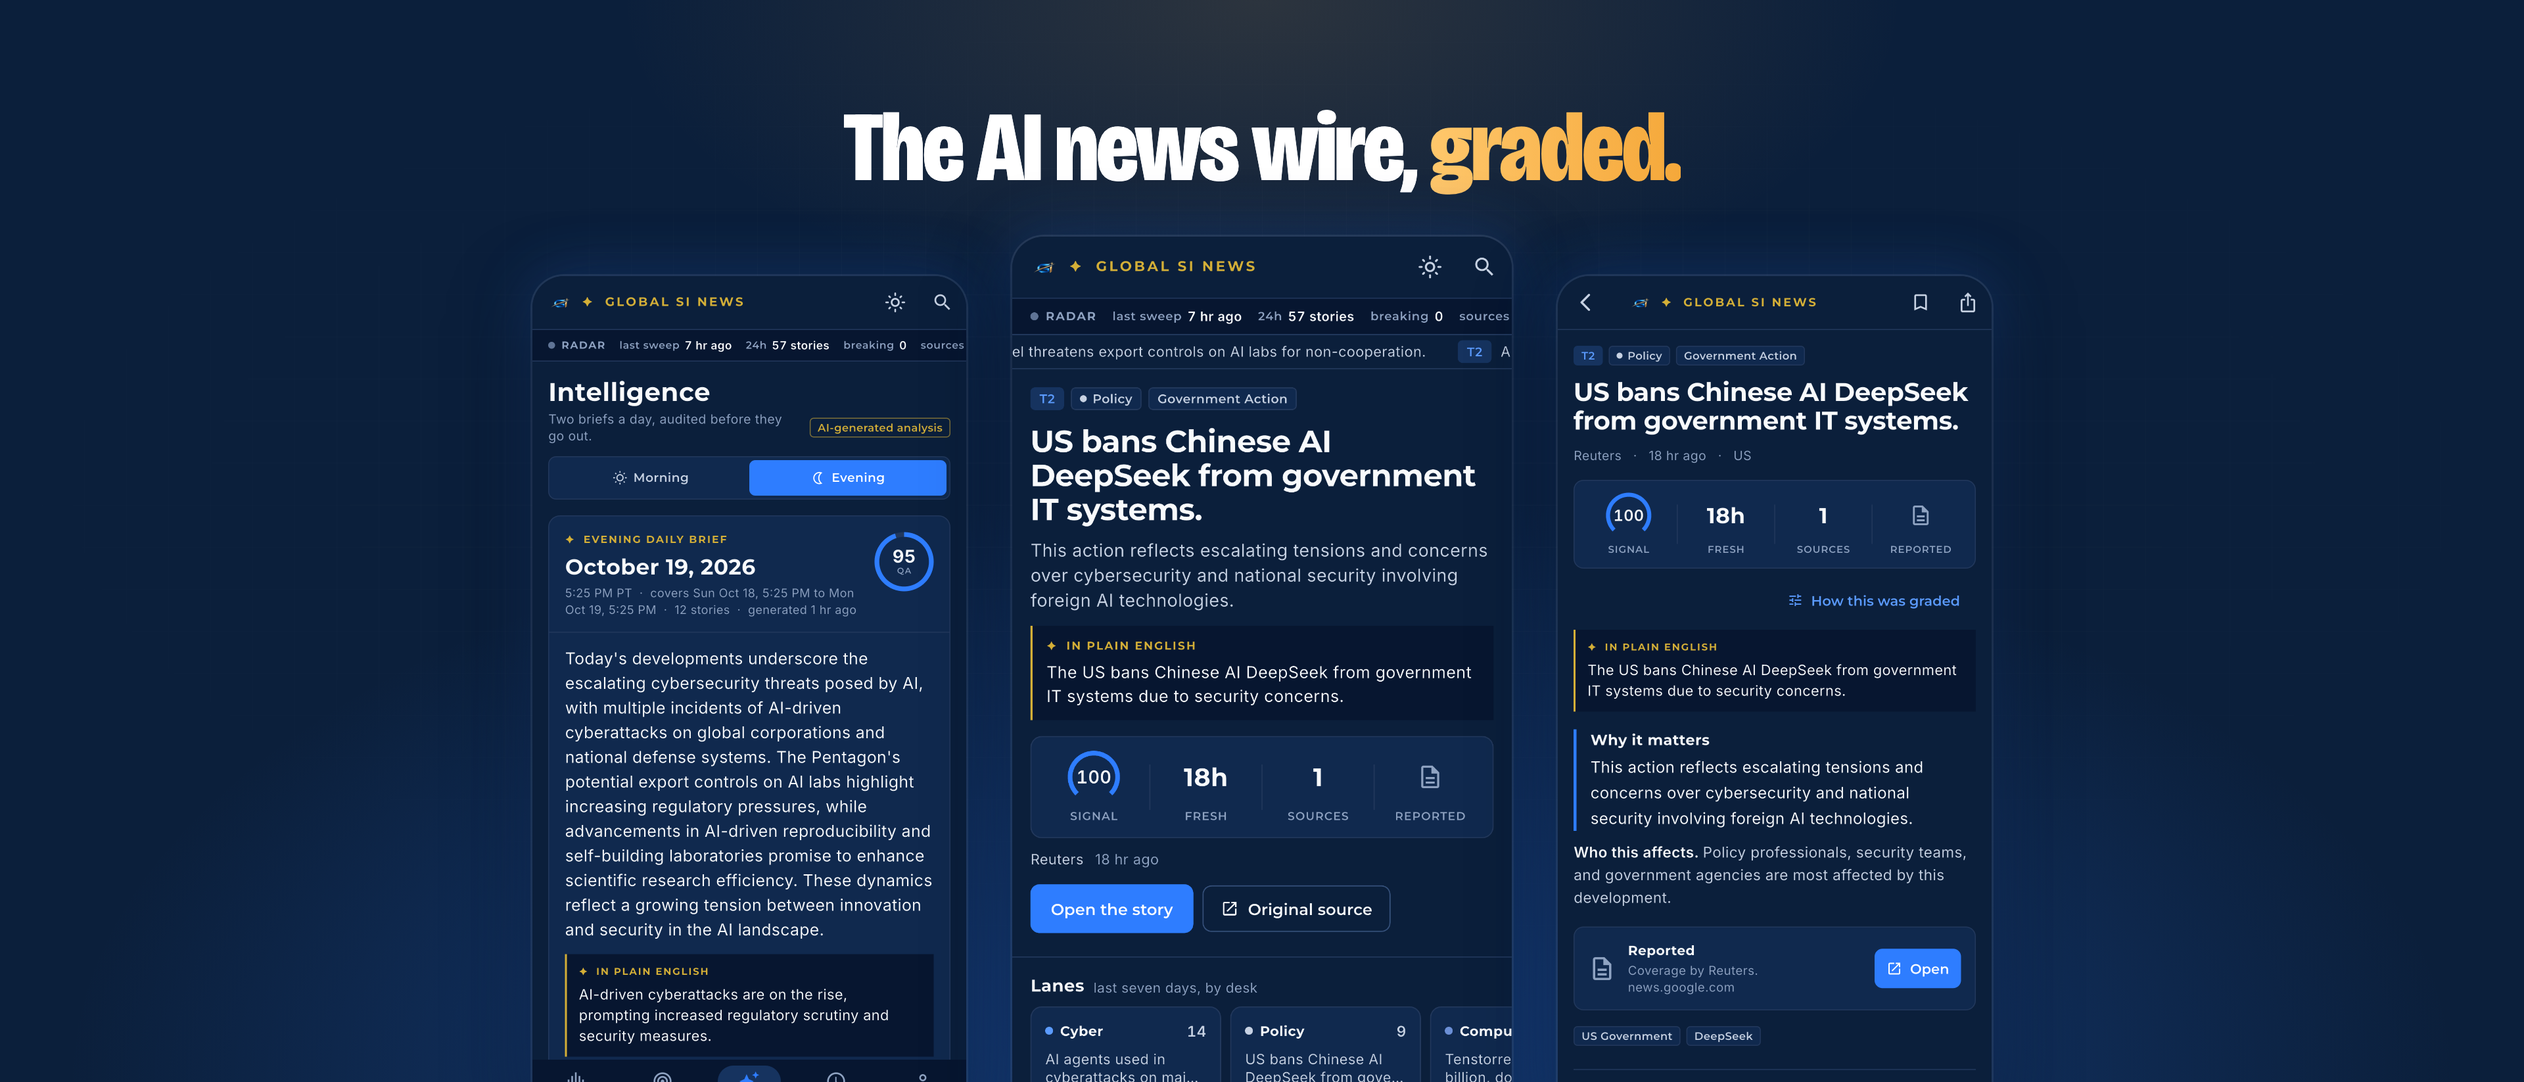
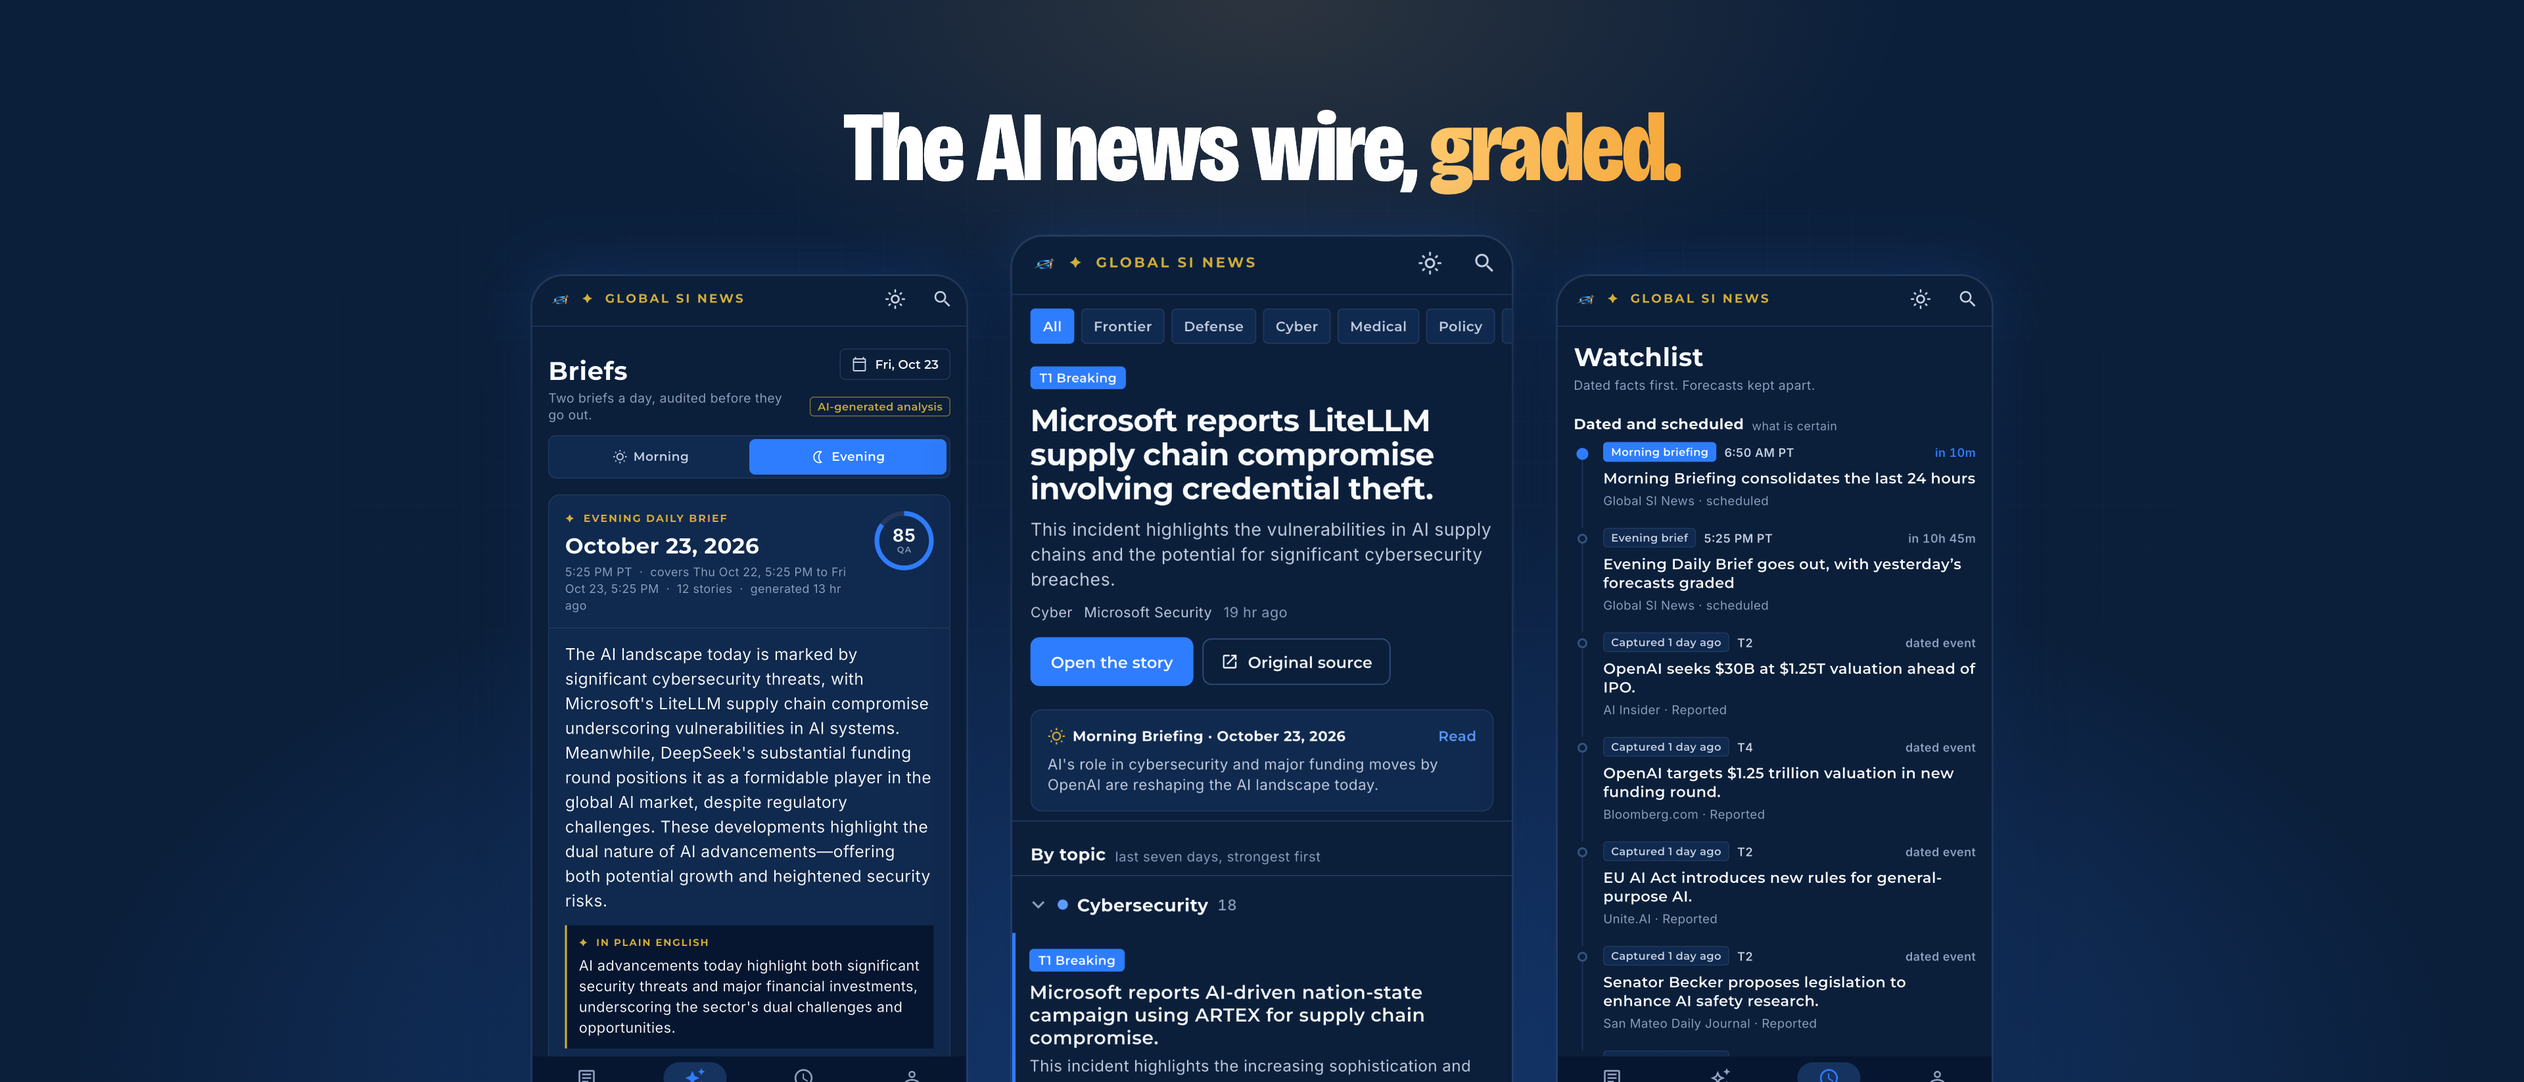
updated for v2.0.1

diff --git a/mobile/store/app-store/src/search.html b/mobile/store/app-store/src/search.html
@@ -1,0 +1,26 @@
+<!doctype html><html><head><meta charset="utf-8">
+<link href="https://fonts.googleapis.com/css2?family=Bricolage+Grotesque:opsz,wdth,wght@12..96,75..100,500..800&display=block" rel="stylesheet">
+<style>
+html,body{margin:0;width:3840px;height:2560px;overflow:hidden}
+body{background:#0b1f3b;font-family:'Bricolage Grotesque',sans-serif;position:relative}
+.glow{position:absolute;inset:0;background:
+ radial-gradient(3000px 1900px at 50% 100%, rgba(46,125,255,.38), transparent 70%),
+ radial-gradient(1400px 700px at 50% 0%, rgba(245,180,80,.14), transparent 70%)}
+.grid{position:absolute;inset:0;background-image:linear-gradient(rgba(255,255,255,.035) 1px,transparent 1px),linear-gradient(90deg,rgba(255,255,255,.035) 1px,transparent 1px);background-size:64px 64px;mask-image:radial-gradient(closest-side at 50% 45%,#000,transparent)}
+.head{position:absolute;left:0;right:0;top:230px;text-align:center}
+h1{margin:0;color:#fff;font-weight:800;font-size:230px;line-height:1;letter-spacing:-.02em;font-variation-settings:'wdth' 80}
+h1 span{background:linear-gradient(90deg,#ffc76b,#f5a83a);-webkit-background-clip:text;color:transparent}
+p{margin:40px auto 0;color:#b9bee0;font-size:84px;font-weight:500;max-width:2200px}
+.cards{position:absolute;left:50%;top:780px;transform:translateX(-50%);display:flex;align-items:flex-start;gap:90px}
+.card{width:960px;border-radius:48px;overflow:hidden;box-shadow:0 40px 120px rgba(0,0,0,.5),0 0 90px rgba(46,125,255,.28),0 0 0 3px rgba(255,255,255,.10)}
+.card img{display:block;width:100%}
+.card.mid{width:1100px;margin-top:-80px}
+</style></head><body>
+<div class="glow"></div><div class="grid"></div>
+<div class="head"><h1>The AI news wire, <span>graded.</span></h1><p>Every AI story, grouped by topic and briefed twice a day.</p></div>
+<div class="cards">
+ <div class="card"><img src="brief.png"></div>
+ <div class="card mid"><img src="news.png"></div>
+ <div class="card"><img src="watch.png"></div>
+</div>
+</body></html>

diff --git a/mobile/store/app-store/src/header.html b/mobile/store/app-store/src/header.html
@@ -1,0 +1,26 @@
+<!doctype html><html><head><meta charset="utf-8">
+<link href="https://fonts.googleapis.com/css2?family=Bricolage+Grotesque:opsz,wdth,wght@12..96,75..100,500..800&display=block" rel="stylesheet">
+<style>
+html,body{margin:0;width:3840px;height:1646px;overflow:hidden}
+body{background:#0b1f3b;font-family:'Bricolage Grotesque',sans-serif;position:relative}
+.glow{position:absolute;inset:0;background:
+ radial-gradient(2600px 1300px at 50% 100%, rgba(46,125,255,.38), transparent 70%),
+ radial-gradient(1400px 700px at 50% 0%, rgba(245,180,80,.14), transparent 70%)}
+.grid{position:absolute;inset:0;background-image:linear-gradient(rgba(255,255,255,.035) 1px,transparent 1px),linear-gradient(90deg,rgba(255,255,255,.035) 1px,transparent 1px);background-size:64px 64px;mask-image:radial-gradient(closest-side at 50% 45%,#000,transparent)}
+.head{position:absolute;left:0;right:0;top:150px;text-align:center}
+h1{margin:0;color:#fff;font-weight:800;font-size:150px;line-height:1;letter-spacing:-.02em;font-variation-settings:'wdth' 80}
+h1 span{background:linear-gradient(90deg,#ffc76b,#f5a83a);-webkit-background-clip:text;color:transparent}
+p{margin:0px auto 0;color:#b9bee0;font-size:0px;font-weight:500;max-width:2200px}
+.cards{position:absolute;left:50%;top:420px;transform:translateX(-50%);display:flex;align-items:flex-start;gap:70px}
+.card{width:660px;border-radius:48px;overflow:hidden;box-shadow:0 40px 120px rgba(0,0,0,.5),0 0 90px rgba(46,125,255,.28),0 0 0 3px rgba(255,255,255,.10)}
+.card img{display:block;width:100%}
+.card.mid{width:760px;margin-top:-60px}
+</style></head><body>
+<div class="glow"></div><div class="grid"></div>
+<div class="head"><h1>The AI news wire, <span>graded.</span></h1></div>
+<div class="cards">
+ <div class="card"><img src="brief.png"></div>
+ <div class="card mid"><img src="news.png"></div>
+ <div class="card"><img src="watch.png"></div>
+</div>
+</body></html>

diff --git a/mobile/store/app-store/src/tpl.html b/mobile/store/app-store/src/tpl.html
@@ -17,10 +17,10 @@ p{margin:{{PM}}px auto 0;color:#b9bee0;font-size:{{PS}}px;font-weight:500;max-wi
 .card.mid{width:{{MW}}px;margin-top:-{{LIFT}}px}
 </style></head><body>
 <div class="glow"></div><div class="grid"></div>
-<div class="head"><h1>The AI news wire, <span>graded.</span></h1>{{SUB}}</div>
+<div class="head"><h1>{{H1}}</h1>{{SUB}}</div>
 <div class="cards">
  <div class="card"><img src="{{L}}.png"></div>
- <div class="card mid"><img src="signal.png"></div>
+ <div class="card mid"><img src="{{C}}.png"></div>
  <div class="card"><img src="{{R}}.png"></div>
 </div>
 </body></html>

diff --git a/mobile/store/app-store/src/gen.py b/mobile/store/app-store/src/gen.py
@@ -1,10 +1,23 @@
-import os
+# Renders the App Store header (21:9) and search results (3:2) images from
+# tpl.html and the screens in this folder (2.0.1 simulator captures, status
+# bar cropped). Writes ../header-3840x1646.png and ../search-results-3840x2560.png.
+import os, subprocess
+from PIL import Image
 D=os.path.dirname(os.path.abspath(__file__)); t=open(os.path.join(D,'tpl.html')).read()
+CHROME='/Applications/Google Chrome.app/Contents/MacOS/Google Chrome'
+H1='The AI news wire, <span>graded.</span>'
 V={
- 'header':dict(W=3840,H=1646,GW=2600,GH=1300,HT=150,HS=150,PM=0,PS=0,SUB='',CT=420,G=70,CW=660,MW=760,LIFT=60,L='intel',R='story'),
- 'search':dict(W=3840,H=2560,GW=3000,GH=1900,HT=230,HS=230,PM=40,PS=84,SUB='<p>Every AI story summarized, scored and briefed twice a day.</p>',CT=780,G=90,CW=960,MW=1100,LIFT=80,L='intel',R='story'),
+ 'header':dict(OUT='header-3840x1646.png',W=3840,H=1646,GW=2600,GH=1300,HT=150,HS=150,PM=0,PS=0,SUB='',CT=420,G=70,CW=660,MW=760,LIFT=60,H1=H1,L='brief',C='news',R='watch'),
+ 'search':dict(OUT='search-results-3840x2560.png',W=3840,H=2560,GW=3000,GH=1900,HT=230,HS=230,PM=40,PS=84,SUB='<p>Every AI story, grouped by topic and briefed twice a day.</p>',CT=780,G=90,CW=960,MW=1100,LIFT=80,H1=H1,L='brief',C='news',R='watch'),
 }
 for k,v in V.items():
     h=t
     for a,b in v.items(): h=h.replace('{{%s}}'%a,str(b))
-    open(os.path.join(D,k+'.html'),'w').write(h); print(k)
+    html=os.path.join(D,k+'.html'); open(html,'w').write(h)
+    out=os.path.join(D,'..',v['OUT'])
+    subprocess.run([CHROME,'--headless=new','--hide-scrollbars','--force-device-scale-factor=1',
+        '--virtual-time-budget=8000','--window-size=%d,%d'%(v['W'],v['H']),'--screenshot='+out,'file://'+html],
+        check=True,capture_output=True)
+    # Apple rejects alpha channels: flatten to RGB.
+    Image.open(out).convert('RGB').save(out)
+    print(k, Image.open(out).size)

diff --git a/mobile/store/RELEASE-2.0.1.md b/mobile/store/RELEASE-2.0.1.md
@@ -1,0 +1,236 @@
+# Release 2.0.1 (2): store submission copy
+
+Everything to paste into App Store Connect and Google Play Console for this release. Build steps are in [../RELEASE.md](../RELEASE.md).
+
+| | |
+|---|---|
+| Version | **2.0.1** (iOS "Version", Android `versionName`) |
+| Build | **2** (iOS "Build", Android `versionCode`) |
+| Bundle / application ID | `co.techcatalyst.gsin` |
+| Release name (Play) | **2.0.1 (2): Simpler reading** |
+| App Store status | Update to the live app (id6824711002) |
+| Google Play status | First production release (the website still says "coming soon") |
+
+---
+
+## 1. What's New / release notes
+
+### App Store: "What's New in This Version" (max 4000)
+
+```
+A simpler, faster way to read.
+
+• Four tabs: News, Briefs, Watchlist and Account. Radar is now part of News.
+• News opens with topic pills, the lead story and the latest brief, then one clean list.
+• Stories are grouped by topic, busiest first. Tap a topic to see all of its stories.
+• Briefs: tap the date to open a calendar and jump to any day that has a brief.
+• Brief sections (graded calls, critical intelligence, trends, cross-domain insights, watchlist) start collapsed with a count, so you can see what's inside at a glance.
+• Cleaner story pages with fewer badges. Breaking stories are still flagged.
+• Bug fixes and performance improvements.
+```
+
+### Google Play: release notes (max 500 per language)
+
+```
+<en-US>
+A simpler, faster way to read.
+• Four tabs: News, Briefs, Watchlist and Account
+• News opens with topic pills, the lead story and the latest brief
+• Stories are grouped by topic, busiest first
+• Briefs: tap the date to pick any day from a calendar
+• Brief sections start collapsed with a count
+• Cleaner story pages with fewer badges
+• Bug fixes and performance improvements
+</en-US>
+```
+
+If you would rather present this as the first Play launch than as an update, use this instead:
+
+```
+<en-US>
+Welcome to Global Super Intelligence News: a graded feed of AI and the path to superintelligence, swept from 34 primary sources every 30 minutes. Read the news by topic, get a morning and an evening brief, check what to watch over the next 72 hours, and turn on breaking-news alerts. Free to read.
+</en-US>
+```
+
+---
+
+## 2. Store listing (both stores)
+
+Only change these on the App Store if you want to refresh the listing. Google Play needs all of them for the first release.
+
+### App name / title (max 30)
+
+```
+Global Super Intelligence News
+```
+
+### App Store subtitle (max 30)
+
+```
+AI news, graded twice a day
+```
+
+### App Store promotional text (max 170; you can change this without a new review)
+
+```
+New in 2.0.1: a simpler app. Four tabs, stories grouped by topic, and a calendar for jumping to any day's brief. Free to read, no account needed.
+```
+
+### Google Play short description (max 80)
+
+```
+AI and superintelligence news, graded from primary sources, twice a day.
+```
+
+### Full description (App Store max 4000 / Play max 4000)
+
+```
+Global Super Intelligence News is a graded feed of artificial intelligence and the path to superintelligence. Every 30 minutes, the radar sweeps 34 primary sources, including lab announcements, research papers, government releases and company filings, and grades every story against a strict rubric. Analysis and forecasts are always labelled as such.
+
+Real intelligence. A clearer tomorrow.
+
+NEWS
+Start with the lead story and the latest brief, then read one clean list grouped by topic, busiest first. Use the topic pills to stick to what you follow. Breaking stories are flagged so they never get buried.
+
+TWO BRIEFS A DAY
+A morning edition and an evening edition condense the day into what matters:
+• Yesterday's calls, graded: what we said would happen, and whether it did
+• Critical intelligence
+• Trends and cross-domain insights
+• A watchlist for the next 24 to 72 hours
+Tap the date to open a calendar and read any past brief.
+
+WATCHLIST
+See what is coming next across the field, in one place.
+
+TEN DESKS
+Frontier Models & AGI · Defense & National Security · Cybersecurity · Medical & Life Sciences · Policy & Regulation · Private Sector & Enterprise · Compute & Chips · Robotics & Autonomy · AI Safety & Alignment · Open Source & Developer Tools
+
+BREAKING-NEWS ALERTS
+Turn on alerts to get notified the moment a real breaking story lands. Breaking is reserved for news that is actually breaking.
+
+SOURCES FIRST
+Every story links to its original source. Summaries are there to help you decide what to read, not to replace the source.
+
+FREE TO READ
+Every story and every brief is free, with no paywall and no account. A free account lets you save stories and join the discussion.
+
+Global Super Intelligence News is operated by Sirlopu Technology Services, LLC (dba TechCatalyst).
+```
+
+### App Store keywords (max 100, comma-separated, no spaces after commas)
+
+```
+AI,artificial,AGI,ASI,LLM,machine learning,briefing,alignment,safety,robotics,chips,policy,tech
+```
+
+(Words already in the app name, such as "news", "super" and "intelligence", are indexed automatically, so they are left out here.)
+
+---
+
+## 3. URLs and contact
+
+| Field | Value |
+|---|---|
+| Support URL | `https://globalsinews.com` (or a `/support` page if you add one) |
+| Marketing URL (App Store, optional) | `https://globalsinews.com` |
+| Privacy policy URL | `https://globalsinews.com/privacy` |
+| Account deletion URL (Play) | `https://globalsinews.com/delete-account` |
+| Support email | `support@techcatalyst.co` |
+| Privacy contact | `privacy@techcatalyst.co` |
+| Copyright (App Store) | `2026 Sirlopu Technology Services, LLC` |
+
+---
+
+## 4. Categories and ratings
+
+| | App Store | Google Play |
+|---|---|---|
+| Primary category | News | News & Magazines |
+| Secondary category | Reference (optional) | — |
+| Tags (Play) | — | News, Technology news |
+| Price | Free | Free |
+| Contains ads | — | **No** |
+| In-app purchases | None | None |
+
+**Age rating.** Answer the questionnaires truthfully. News coverage of defense and cybersecurity can mention real-world violence, so mark "Infrequent/Mild" for realistic violence if you see it in the feed. Signed-in users can comment, which counts as user-generated content. Apple guideline 1.2 asks for a way to report content (the app has **Report comment**, and admins work the Reported queue in the Newsroom), active moderation, **and a way to block abusive users. The app can't block users yet**, so review may flag it. Adding a "Block user" action on comments before submitting is the safe choice.
+
+**Play target audience.** Pick **18 and over** (or 13+ at the youngest). Including under-13s puts the app under the Families policy.
+
+---
+
+## 5. Privacy forms
+
+### App Store: App Privacy
+
+| Data type | Collected | Linked to user | Tracking | Purpose |
+|---|---|---|---|---|
+| Email address | Yes | Yes | No | App functionality (account) |
+| User ID | Yes | Yes | No | App functionality (account) |
+| Other user content (comments) | Yes | Yes | No | App functionality |
+| Device ID (push token, Firebase) | Yes | No | No | App functionality (notifications) |
+
+### Google Play: Data safety
+
+- Collects: **Email address**, **User IDs**, **Other user-generated content** (comments), **Device or other IDs** (Firebase Cloud Messaging).
+- Purpose: Account management and app functionality. Nothing is used for advertising or analytics.
+- Shared with third parties: **No.**
+- Encrypted in transit: **Yes.**
+- Users can request deletion: **Yes**, in the app (Account) and at the deletion URL.
+- Account creation is optional. Reading works without signing in.
+
+---
+
+## 6. Review notes
+
+### App Store: App Review Information
+
+```
+Global Super Intelligence News is free to read with no account. All stories, briefs and the watchlist work without signing in.
+
+A demo account is provided to review the signed-in features: saving stories, commenting and reporting comments on a story, breaking-news alert settings, change password and account deletion (Account tab).
+
+Breaking-news alerts use Firebase Cloud Messaging and need a real device. Users can start account deletion in the app: Account > Request account deletion (opens globalsinews.com/delete-account).
+
+What changed in 2.0.1: navigation simplified to four tabs (News, Briefs, Watchlist, Account), stories grouped by topic, and a calendar for picking a brief by date.
+```
+
+- **Sign-in required:** check it, and enter the demo account's email and password. Use a seeded active user, and don't paste the credentials into this file.
+- **Contact:** name, phone and `support@techcatalyst.co`.
+
+### Google Play: App access
+
+Choose "All or some functionality is restricted", then add the same demo account with the instruction: *"Account tab > Sign in. Reading works without an account; signing in enables saved stories and comments."*
+
+---
+
+## 7. Assets in this repo
+
+| Asset | Path |
+|---|---|
+| iPhone 6.9" screenshots (required) | `store/app-store/iphone-6.9/` |
+| iPhone 6.5" / 6.3" / 6.1" screenshots | `store/app-store/iphone-6.5/`, `iphone-6.3/`, `iphone-6.1/` |
+| App preview video | `store/app-store/app-preview/` |
+| Play phone screenshots (2–8) | `store/play-screenshots/01-signal.png` … `05-watchlist.png` |
+| Play feature graphic 1024×500 | `store/feature-graphic-1024x500.png` |
+| Play app icon 512×512 | Export from `assets/` (the launcher icon source) |
+
+**Check the screenshots before you upload.** Several were made before 2.0.1. Any that show the Radar tab, the radar strip or the stats and grading panels no longer match the app. Both stores can reject a listing whose screenshots don't match the build, so retake those from 2.0.1.
+
+---
+
+## 8. Submission checklist
+
+**iOS**
+- [ ] `flutter build ipa --release`, then upload with Transporter or Xcode Organizer
+- [ ] App Store Connect: + Version → **2.0.1**, attach build **2**
+- [ ] Paste What's New, update promotional text and screenshots if needed
+- [ ] Confirm the demo account still signs in
+- [ ] Submit for review; release manually or automatically after approval
+
+**Android**
+- [ ] `flutter build appbundle --release`, and check the signer isn't `androiddebugkey`
+- [ ] Complete the main store listing, Data safety, content rating, target audience, ads (No), app access and news app declaration
+- [ ] Create a release on **closed testing** first if the account is personal (12 testers for 14 days), otherwise go to production
+- [ ] Release name **2.0.1 (2): Simpler reading**, and paste the release notes
+- [ ] After it goes live, set `APP_STORES.android` in `client/src/brand.js` to the Play URL so the website stops saying "coming soon"
